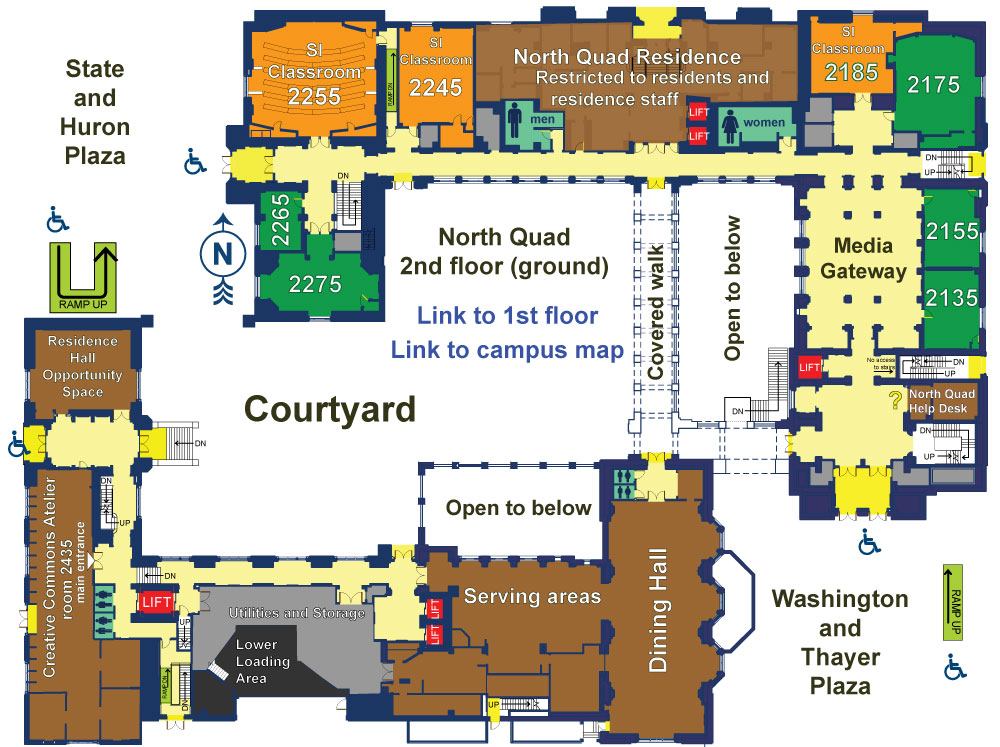
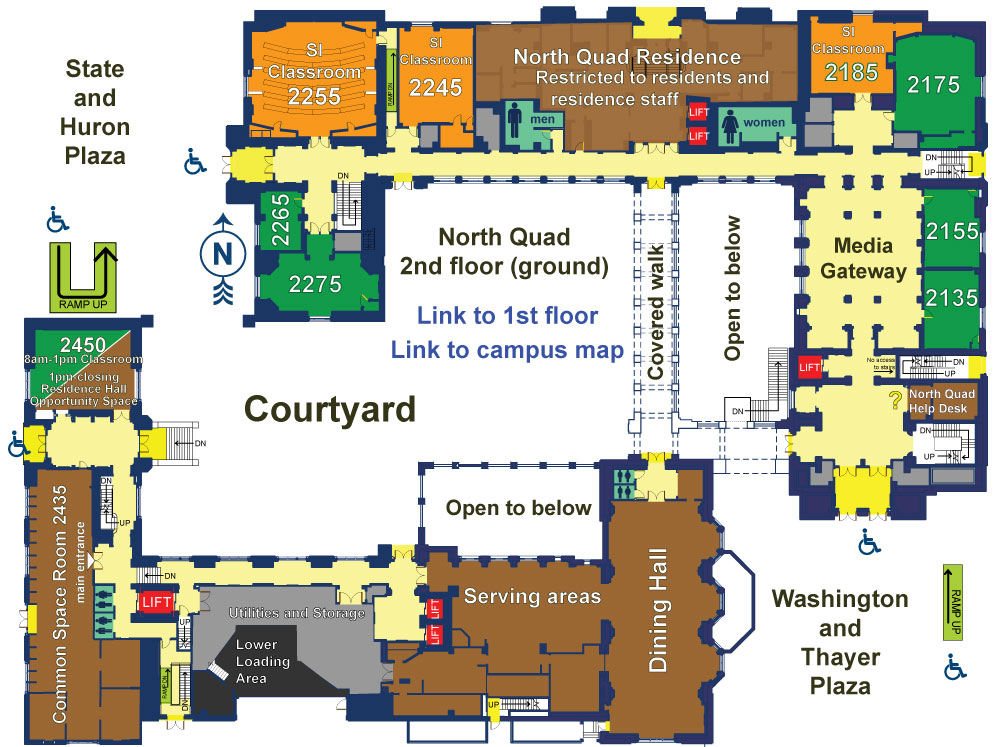
updated chairs and maps

Changed region(s): [[0.031, 0.6466, 0.093, 0.9545], [0.031, 0.4311, 0.155, 0.585]]

diff --git a/public/maps/nq2.html b/public/maps/nq2.html
@@ -9,11 +9,12 @@
 <map name="nq2" id="nq2">
   <area shape="rect" coords="407,301,604,331" href="nq1.html" target="_self" alt="Link to first floor" title="Link to first floor" />
   <area shape="rect" coords="387,336,629,366" href="index.html" target="_self" alt="Link to campus map" title="Link to campus map" />
-  <area shape="rect" coords="261,194,302,248" href="../classrooms/NQ2265 " alt="link to room 2265 data" title="link to room 2265 data" />
-  <area shape="rect" coords="259,254,377,307" href="../classrooms/NQ2275 " alt="link to room 2275 data" title="link to room 2275 data" />
-  <area shape="rect" coords="897,40,979,139" href="../classrooms/NQ2175 " alt="link to room 2175 data" title="link to room 2175 data" />
-  <area shape="rect" coords="925,193,979,263" href="../classrooms/NQ2155 " alt="link to room 2155 data" title="link to room 2155 data" />
-  <area shape="rect" coords="927,269,978,346" href="../classrooms/NQ2135 " alt="link to room 2135 data" title="link to room 2135 data" />
+  <area shape="rect" coords="22,317,143,410" href="../classrooms/NQ2450 " alt="link to room 2450 data" title="link to room 2450 data" />
+  <area shape="rect" coords="236,180,330,250" href="../classrooms/NQ2265 " alt="link to room 2265 data" title="link to room 2265 data" />
+  <area shape="rect" coords="240,251,388,327" href="../classrooms/NQ2275 " alt="link to room 2275 data" title="link to room 2275 data" />
+  <area shape="rect" coords="888,12,992,159" href="../classrooms/NQ2175 " alt="link to room 2175 data" title="link to room 2175 data" />
+  <area shape="rect" coords="905,175,993,268" href="../classrooms/NQ2155 " alt="link to room 2155 data" title="link to room 2155 data" />
+  <area shape="rect" coords="904,271,992,360" href="../classrooms/NQ2135 " alt="link to room 2135 data" title="link to room 2135 data" />
 </map>
 </body>
 </html>
